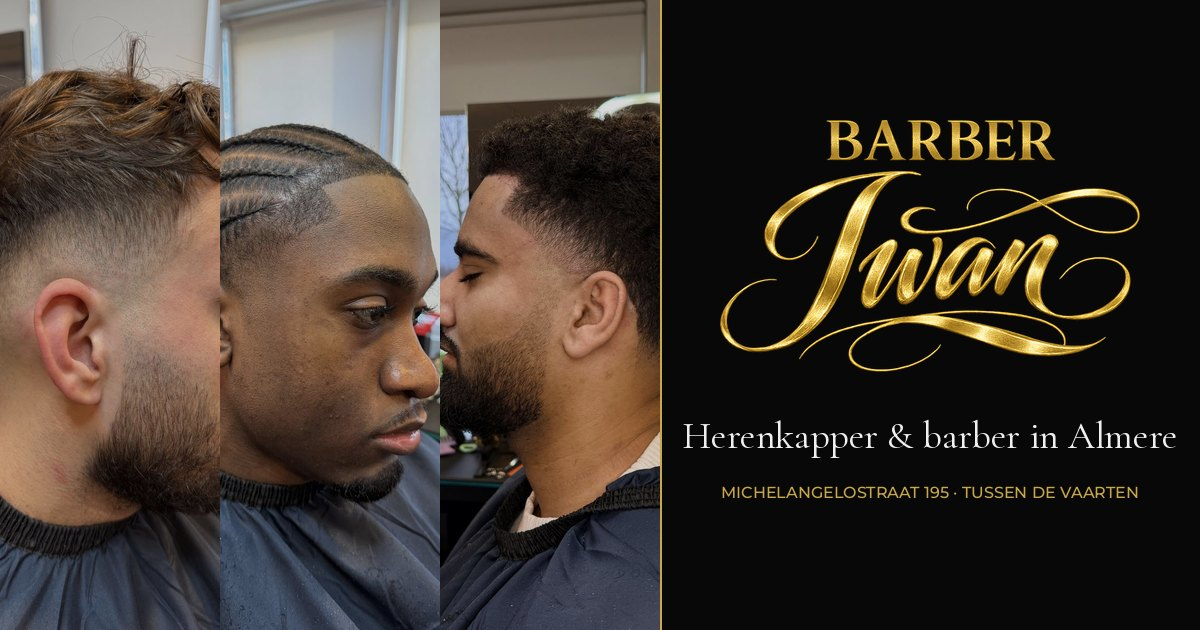
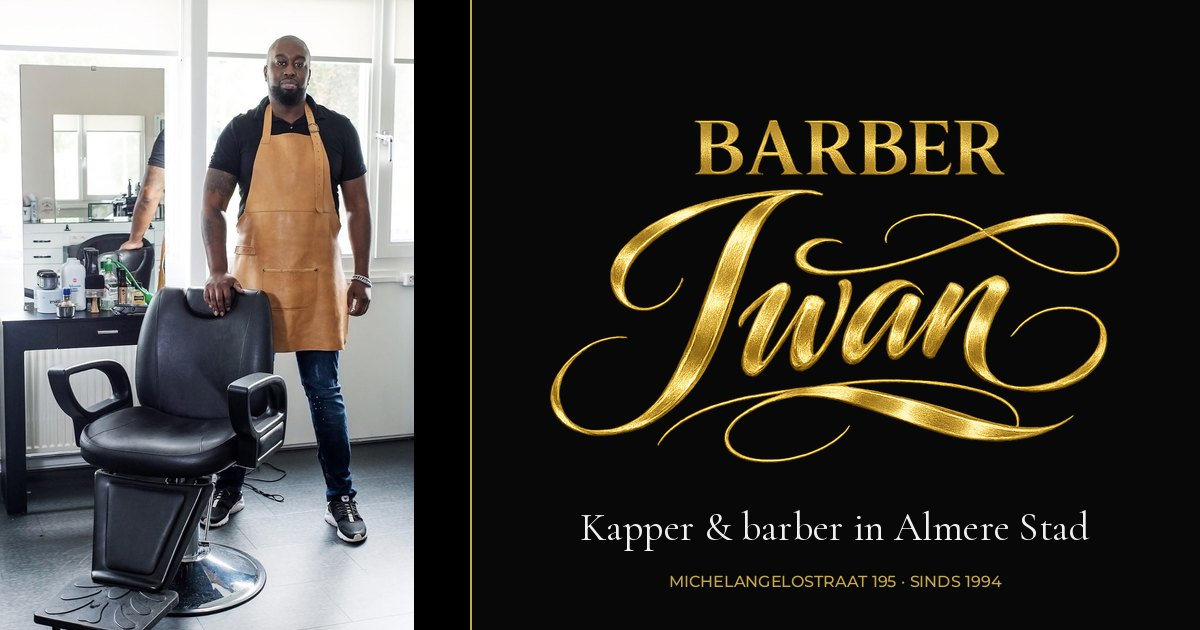
Portret van Iwan op home, Over Iwan, in het schema en de deelafbeelding
- Origineel (bijgesneden screenshot) in design/fotos/, buiten public/;
  webversies als /foto/iwan-barber-almere.jpg en /img/iwan-barber-almere-*.webp.
- Home: de Over-sectie krijgt het portret naast de tekst.
- Over Iwan: portret in de paginakop.
- Schema: Person.image en HairSalon.image; sitemap noemt het bij home en over.
- og-barber-iwan.jpg: portret links, logo en "Kapper & barber in Almere Stad"
  rechts.

Claude-Session: https://claude.ai/code/session_012na15LHcKVyzYJHKqrJq1M

diff --git a/src/site/pages/Home.tsx b/src/site/pages/Home.tsx
@@ -69,24 +69,32 @@ function Hero() {
 function About() {
   return (
     <section id="over" className="py-28 md:py-40 scroll-mt-20">
-      <div className="max-w-7xl mx-auto px-6 md:px-8 grid gap-16 lg:grid-cols-2 lg:gap-24">
-        <div data-reveal>
+      <div className="max-w-7xl mx-auto px-6 md:px-8 grid gap-16 lg:grid-cols-[0.9fr_1.1fr] lg:gap-24 items-center">
+        <figure data-reveal>
+          <div className="relative aspect-[3/4] max-w-md overflow-hidden border border-white/10">
+            <Picture photo={photos.iwan} sizes="(min-width: 1024px) 440px, 90vw" />
+          </div>
+          <figcaption className="mt-4 text-sm text-white/45">
+            Iwan in zijn salon in {business.address.district}
+          </figcaption>
+        </figure>
+        <div data-reveal style={d(100)}>
           <Eyebrow number="01">Over Iwan</Eyebrow>
-          <h2 className="font-serif text-4xl md:text-5xl lg:text-6xl leading-[1.05]">
+          <h2 className="font-serif text-4xl md:text-5xl lg:text-6xl leading-[1.05] mb-10">
             Ruim dertig jaar <em className="text-gold">passie voor het vak</em>
           </h2>
-          <blockquote className="mt-12 border-l border-gold/50 pl-8 font-serif italic text-2xl md:text-3xl text-white/80 leading-snug max-w-md">
+          <div className="space-y-6 text-white/60 leading-relaxed text-lg">
+            <p>
+              Wat begon als een jongensdroom in {business.since}, groeide uit tot een levenslange missie: het ambacht van het barbierschap perfectioneren. Ik knip alle haartypes — Europees, Aziatisch, Black en Mixed hair — elk met zijn eigen eigenschappen.
+            </p>
+            <p>
+              Bij Barber Iwan draait het niet alleen om een knipbeurt. Het is een moment van rust, persoonlijke aandacht en het vertrouwen dat je in goede handen bent.
+            </p>
+          </div>
+          <blockquote className="mt-10 border-l border-gold/50 pl-8 font-serif italic text-2xl md:text-3xl text-white/80 leading-snug max-w-lg">
             “Een goede barber begrijpt niet alleen haar, maar de persoon erachter.”
           </blockquote>
-        </div>
-        <div className="space-y-6 text-white/60 leading-relaxed text-lg" data-reveal style={d(100)}>
-          <p>
-            Wat begon als een jongensdroom in {business.since}, groeide uit tot een levenslange missie: het ambacht van het barbierschap perfectioneren. Ik knip alle haartypes — Europees, Aziatisch, Black en Mixed hair — elk met zijn eigen eigenschappen.
-          </p>
-          <p>
-            Bij Barber Iwan draait het niet alleen om een knipbeurt. Het is een moment van rust, persoonlijke aandacht en het vertrouwen dat je in goede handen bent. Van een strakke taper fade tot een geschoren figuur: elk kapsel krijgt de tijd die het nodig heeft.
-          </p>
-          <dl className="grid grid-cols-3 gap-6 pt-10 mt-4 border-t border-white/10">
+          <dl className="grid grid-cols-3 gap-6 pt-10 mt-12 border-t border-white/10">
             {[
               { value: '30+', label: 'Jaar ervaring' },
               { value: '4', label: 'Haartypes' },
@@ -99,7 +107,7 @@ function About() {
               </div>
             ))}
           </dl>
-          <div className="pt-6">
+          <div className="pt-10">
             <ArrowLink href={pages.over.path}>Het verhaal van Iwan</ArrowLink>
           </div>
         </div>

diff --git a/src/site/data.ts b/src/site/data.ts
@@ -324,6 +324,7 @@ export const photoSrc = (p: Photo) => `/foto/${p.slug}.jpg`;
 export const photoWebp = (p: Photo, w: number) => `/img/${p.slug}-${w}.webp`;
 
 const P = {
+  iwan: photo('iwan-barber-almere', 1125, 1688, [480, 900], 'Iwan in de salon', 'Iwan naast de kappersstoel in zijn salon aan de Michelangelostraat.', 'Barber Iwan in leren schort naast de kappersstoel in zijn salon in Almere', []),
   midFade: photo('mid-fade-krullen-baard', 900, 1200, [480, 900], 'Krullen met mid fade', 'Krullend bovenhaar, een mid fade en een volle, strak getrimde baard.', 'Man met krullend bovenhaar, mid fade en volle getrimde baard, van opzij', ['fades', 'krullen', 'baard']),
   cornrows: photo('contouren-cornrows', 900, 1200, [480, 900], 'Contouren bij vlechten', 'Strak bijgewerkte zijkanten en lijnen rond cornrows.', 'Jongeman met cornrows en strak bijgewerkte contouren, van opzij', ['lijnen']),
   taper: photo('klassieke-taper', 900, 1200, [480, 900], 'Klassieke taper', 'Donker, steil haar met een nette taper in de nek.', 'Klassiek herenkapsel met taper in de nek, van achteren', ['klassiek', 'fades']),

diff --git a/src/site/seo.ts b/src/site/seo.ts
@@ -66,7 +66,7 @@ function salon(withCatalog: boolean): Json {
       .join(', ')} en ${hairTypes.at(-1)} hair. Knippen, fades, baard en kinderkapsels, op afspraak.`,
     url: abs('/'),
     telephone: business.phone.e164,
-    image: [OG_IMAGE, ...allWork.slice(0, 4).map((p) => abs(photoSrc(p)))],
+    image: [OG_IMAGE, abs(photoSrc(photos.iwan)), ...allWork.slice(0, 4).map((p) => abs(photoSrc(p)))],
     logo: abs('/icon-512.png'),
     priceRange,
     currenciesAccepted: 'EUR',
@@ -111,6 +111,7 @@ const iwan: Json = {
   name: business.owner,
   jobTitle: 'Barber',
   url: abs(pages.over.path),
+  image: abs(photoSrc(photos.iwan)),
   description: `Barber sinds ${business.since}, gespecialiseerd in Europees, Aziatisch, Black en Mixed hair.`,
   worksFor: { '@id': ids.salon },
   knowsAbout: ['Europees haar', 'Aziatisch haar', 'Black hair', 'Mixed hair', 'Fades', 'Geschoren figuren'],

diff --git a/src/site/feeds.ts b/src/site/feeds.ts
@@ -20,7 +20,8 @@ const xmlEscape = (s: string) =>
   s.replace(/&/g, '&amp;').replace(/</g, '&lt;').replace(/>/g, '&gt;').replace(/"/g, '&quot;');
 
 const imagesOnPage: Partial<Record<PageId, Photo[]>> = {
-  home: [photos.midFade, photos.afroTop, photos.cornrows, photos.taper, photos.design, photos.wavy, photos.longHair],
+  over: [photos.iwan],
+  home: [photos.iwan, photos.midFade, photos.afroTop, photos.cornrows, photos.taper, photos.design, photos.wavy, photos.longHair],
   haircuts: allWork,
   fade: [photos.buzz, ...photosTagged('fades').slice(0, 4)],
   'black-hair': [photos.afroTop, photos.afro, photos.design, photos.cornrows, photos.wavy],

diff --git a/src/site/pages/Subpages.tsx b/src/site/pages/Subpages.tsx
@@ -423,6 +423,7 @@ export function About() {
             Iwan knipt al ruim dertig jaar, en nog steeds met veel plezier. Elke klant kan een keurige, strakke knipbeurt verwachten, welk haartype je ook hebt.
           </p>
         }
+        photo={photos.iwan}
       />
 
       <section className="py-24 border-t border-white/[0.06]">

diff --git a/scripts/optimize-images.py b/scripts/optimize-images.py
@@ -24,6 +24,8 @@ GOLD = (201, 168, 74)
 # bron in public/ -> (beschrijvende naam, breedtes in px). De naam komt in de
 # URL van de foto terecht; Google Afbeeldingen leest die mee.
 PHOTOS = {
+    # Portret van Iwan in de salon; het origineel staat buiten public/.
+    "design/fotos/iwan-portret.jpg": ("iwan-barber-almere", (480, 900)),
     "7BA86E7C-5624-4FB8-B92B-ED7F1729ACC7.jpg": ("mid-fade-krullen-baard", (480, 900)),
     "7367F35C-CC28-43C5-A6F7-E786E6FD6D31.jpg": ("contouren-cornrows", (480, 900)),
     "ECE8A51A-C1C4-4D31-9604-795D3E8BC503.jpg": ("klassieke-taper", (480, 900)),
@@ -50,7 +52,7 @@ def save_webp(im: Image.Image, path: Path, quality: int = 78) -> None:
 def photos() -> None:
     FOTO.mkdir(exist_ok=True)
     for name, (slug, widths) in PHOTOS.items():
-        src = Image.open(PUBLIC / name).convert("RGB")
+        src = Image.open((ROOT if name.startswith("design/") else PUBLIC) / name).convert("RGB")
         # Origineel onder de beschrijvende naam, als fallback voor browsers zonder WebP.
         src.save(FOTO / f"{slug}.jpg", quality=84, optimize=True, progressive=True)
         for w in widths:
@@ -105,32 +107,29 @@ def cover(path: str, w: int, h: int) -> Image.Image:
 def og_image(mark: Image.Image, fonts: Path | None) -> None:
     W, H = 1200, 630
     canvas = Image.new("RGB", (W, H), BG)
-    strip = 220
-    for i, name in enumerate(
-        (
-            "7BA86E7C-5624-4FB8-B92B-ED7F1729ACC7.jpg",
-            "7367F35C-CC28-43C5-A6F7-E786E6FD6D31.jpg",
-            "ig-3.jpg",
-        )
-    ):
-        tile = ImageEnhance.Brightness(cover(name, strip, H)).enhance(0.85)
-        canvas.paste(tile, (i * strip, 0))
+    # Links het portret van Iwan, rechts logo en tekst.
+    left = 470
+    portrait = Image.open(ROOT / "design/fotos/iwan-portret.jpg").convert("RGB")
+    ratio = max(left / portrait.width, H / portrait.height)
+    portrait = portrait.resize((round(portrait.width * ratio), round(portrait.height * ratio)), Image.LANCZOS)
+    x = (portrait.width - left) // 2 + round(portrait.width * 0.12)
+    canvas.paste(portrait.crop((x, 0, x + left, H)), (0, 0))
     draw = ImageDraw.Draw(canvas)
-    x0 = 3 * strip
-    draw.line([(x0, 0), (x0, H)], fill=GOLD, width=2)
-    panel_w = W - x0
-    ratio = (panel_w - 120) / mark.width
+    draw.line([(left, 0), (left, H)], fill=GOLD, width=2)
+    panel_w = W - left
+    ratio = (panel_w - 160) / mark.width
     m = mark.resize((round(mark.width * ratio), round(mark.height * ratio)), Image.LANCZOS)
-    canvas.paste(m, (x0 + (panel_w - m.width) // 2, 120), m)
+    top = 120
+    canvas.paste(m, (left + (panel_w - m.width) // 2, top), m)
     if fonts:
-        serif = ImageFont.truetype(str(fonts / "cormorant-italic.ttf"), 38)
+        serif = ImageFont.truetype(str(fonts / "cormorant-italic.ttf"), 40)
         sans = ImageFont.truetype(str(fonts / "montserrat-500.ttf"), 16)
         for text, font, y, fill in (
-            ("Herenkapper & barber in Almere", serif, 120 + m.height + 40, (240, 240, 240)),
-            ("MICHELANGELOSTRAAT 195 · TUSSEN DE VAARTEN", sans, 120 + m.height + 110, GOLD),
+            ("Kapper & barber in Almere Stad", serif, top + m.height + 40, (240, 240, 240)),
+            ("MICHELANGELOSTRAAT 195 · SINDS 1994", sans, top + m.height + 108, GOLD),
         ):
             tw = draw.textlength(text, font=font)
-            draw.text((x0 + (panel_w - tw) / 2, y), text, font=font, fill=fill)
+            draw.text((left + (panel_w - tw) / 2, y), text, font=font, fill=fill)
     canvas.save(PUBLIC / "og-barber-iwan.jpg", quality=86, optimize=True, progressive=True)
 
 
